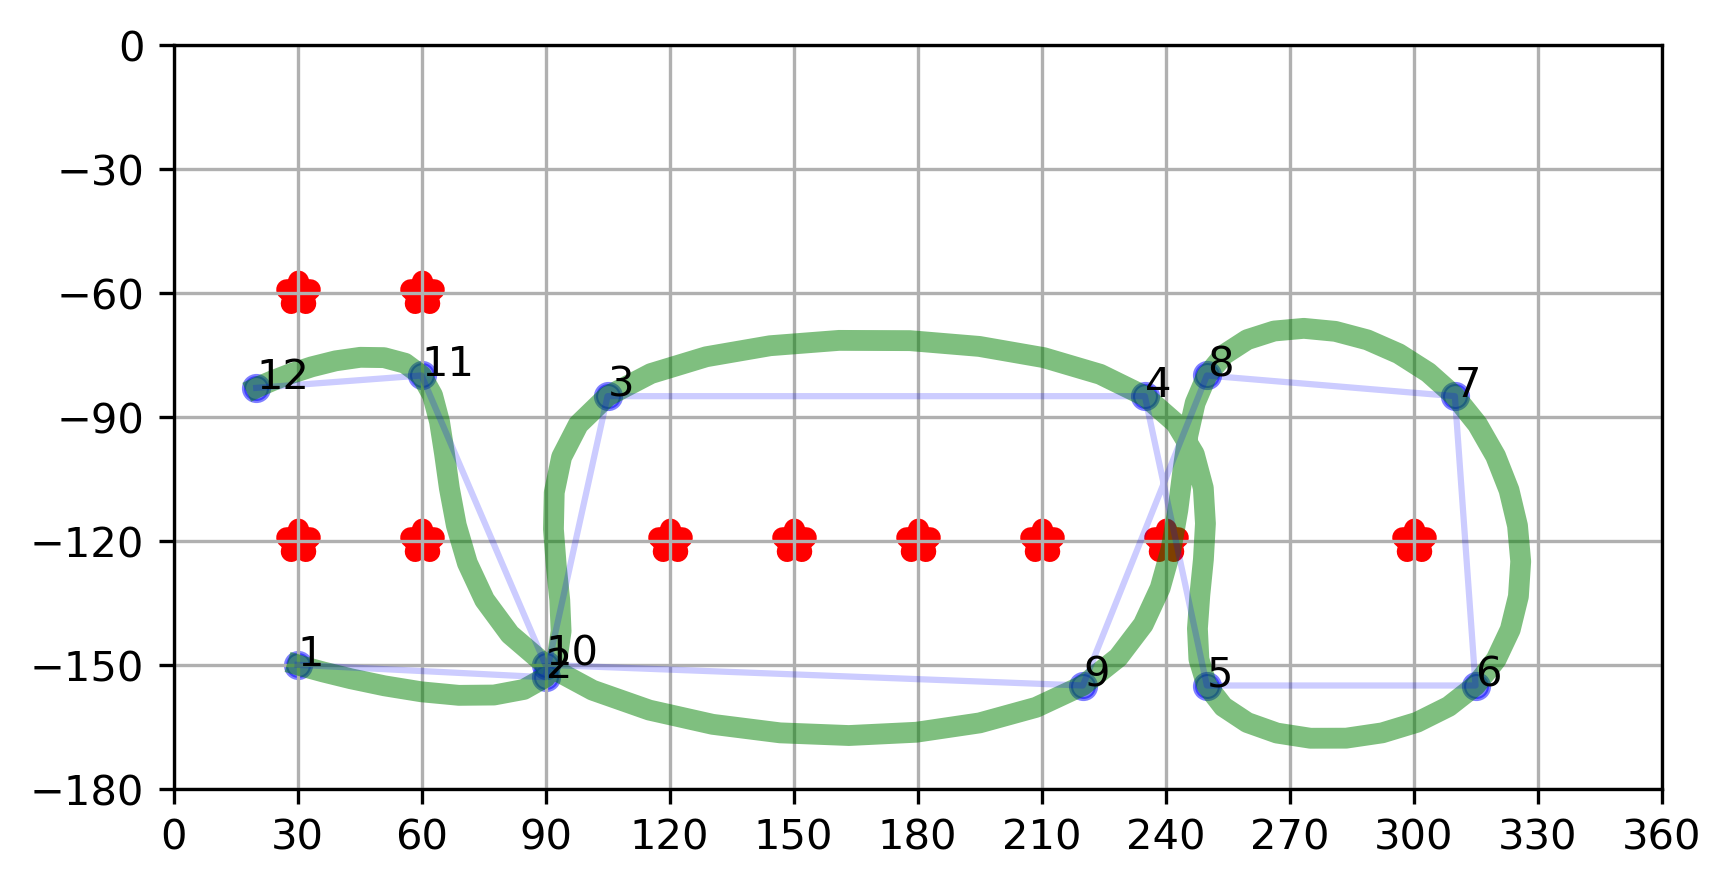
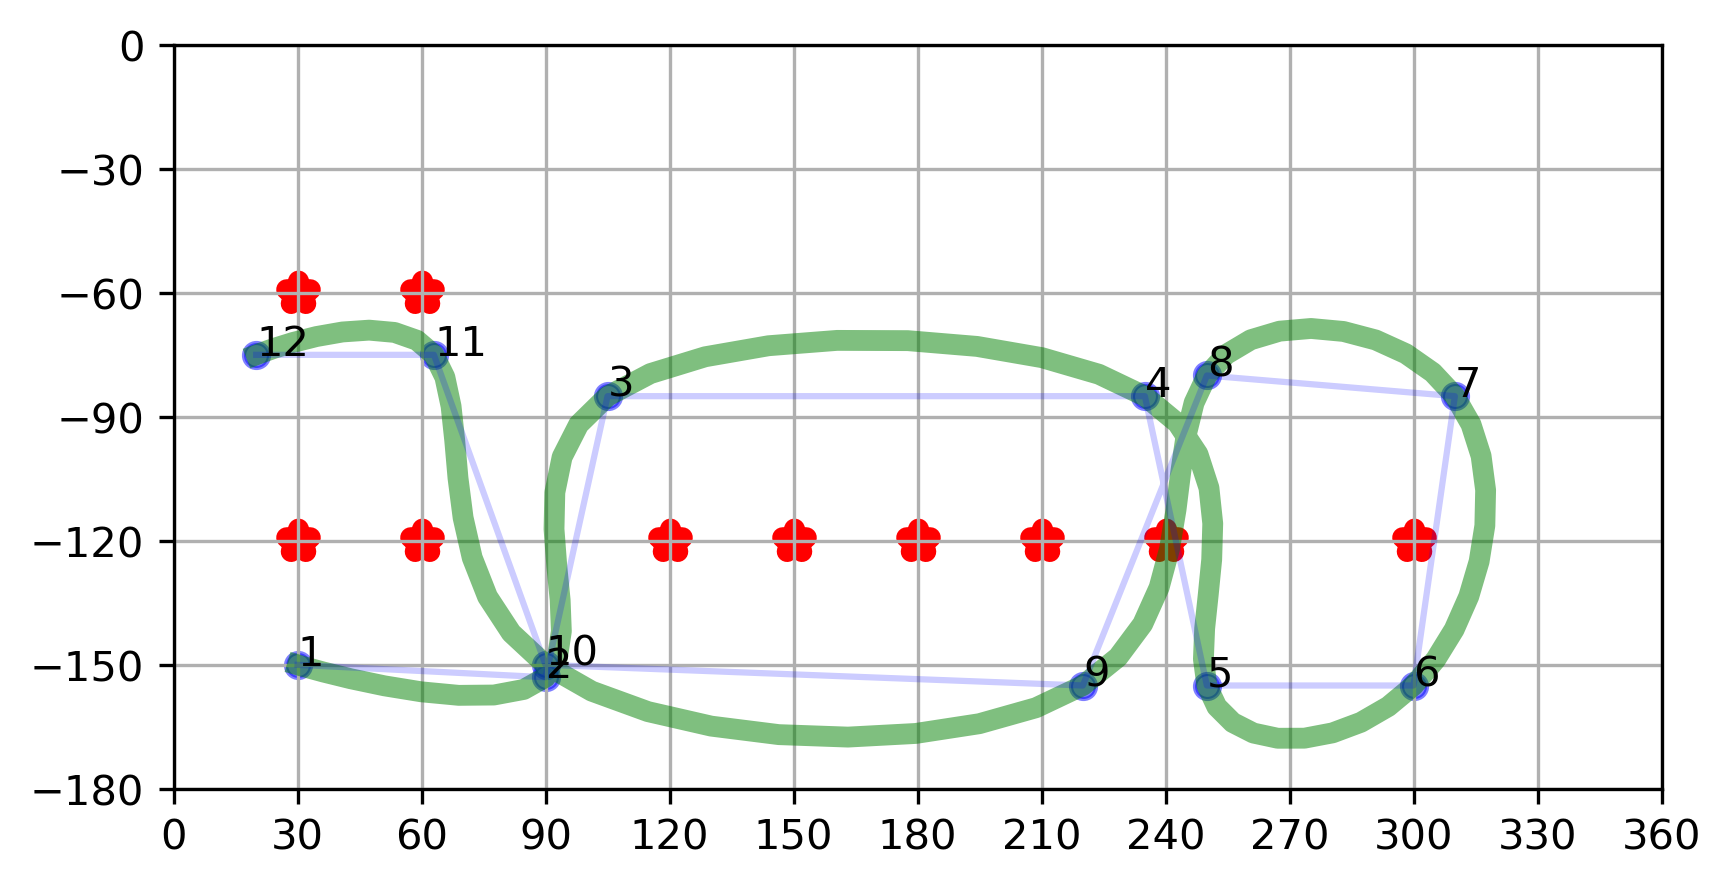
slalom apr2 v4

diff --git a/python/slalom_apr2.java b/python/slalom_apr2.java
@@ -4,11 +4,11 @@
 	{105,85},	// 3
 	{235,85},	// 4
 	{250,155},	// 5
-	{315,155},	// 6
+	{300,155},	// 6
 	{310,85},	// 7
 	{250,80},	// 8
 	{220,155},	// 9
 	{90,150},	// 10
-	{60,80},	// 11
-	{20,83},	// 12
+	{63,75},	// 11
+	{20,75},	// 12
 }
